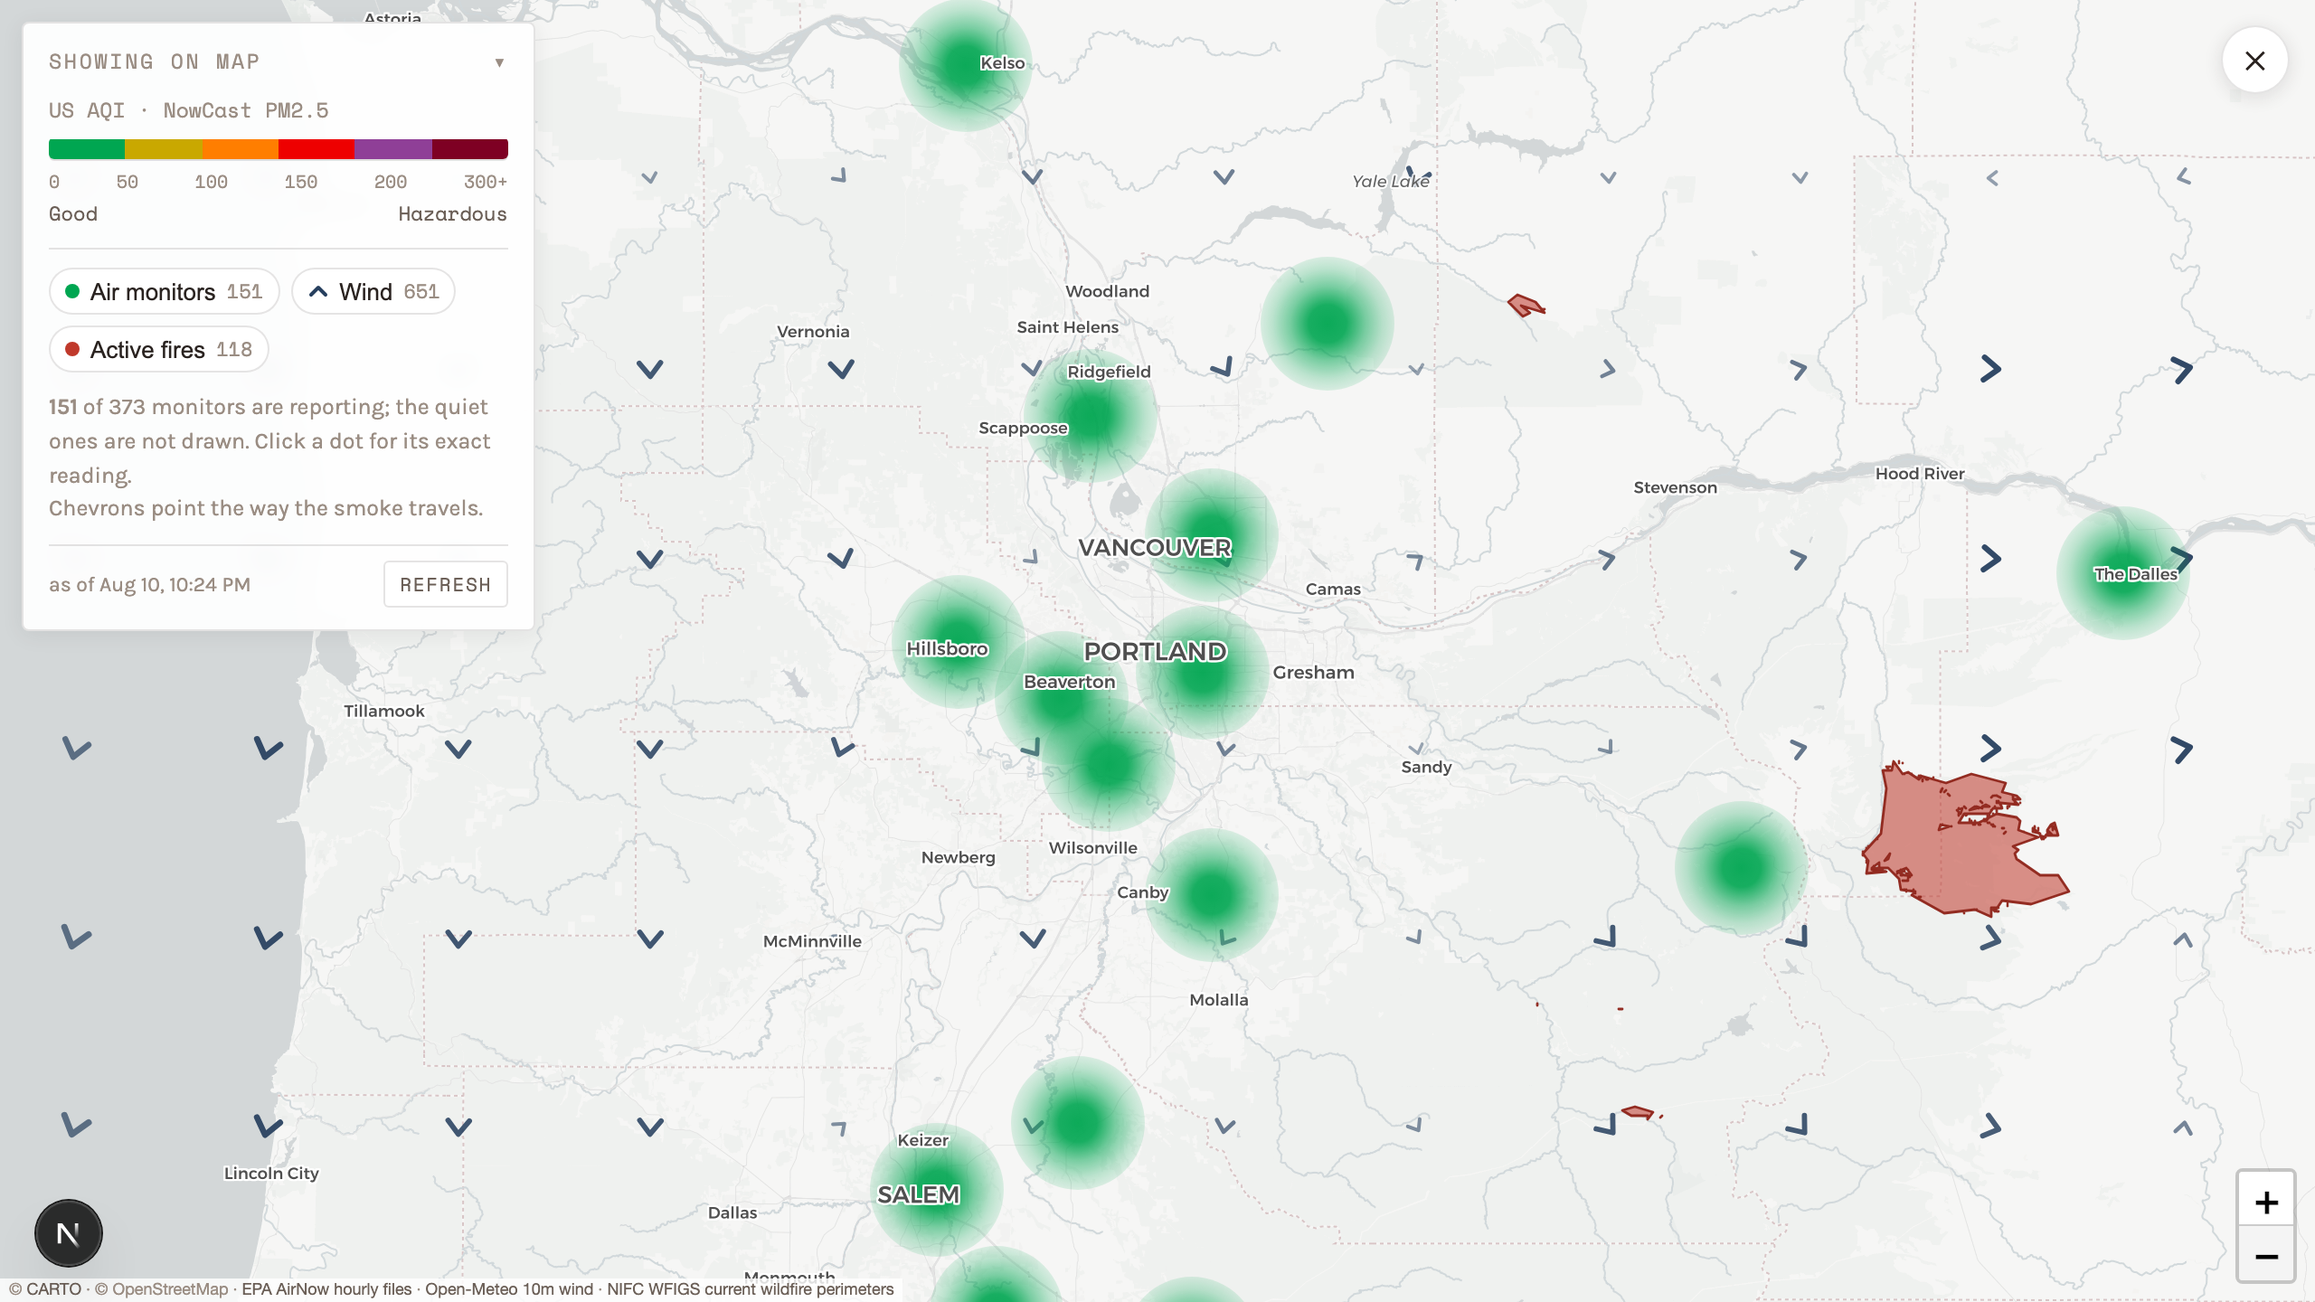
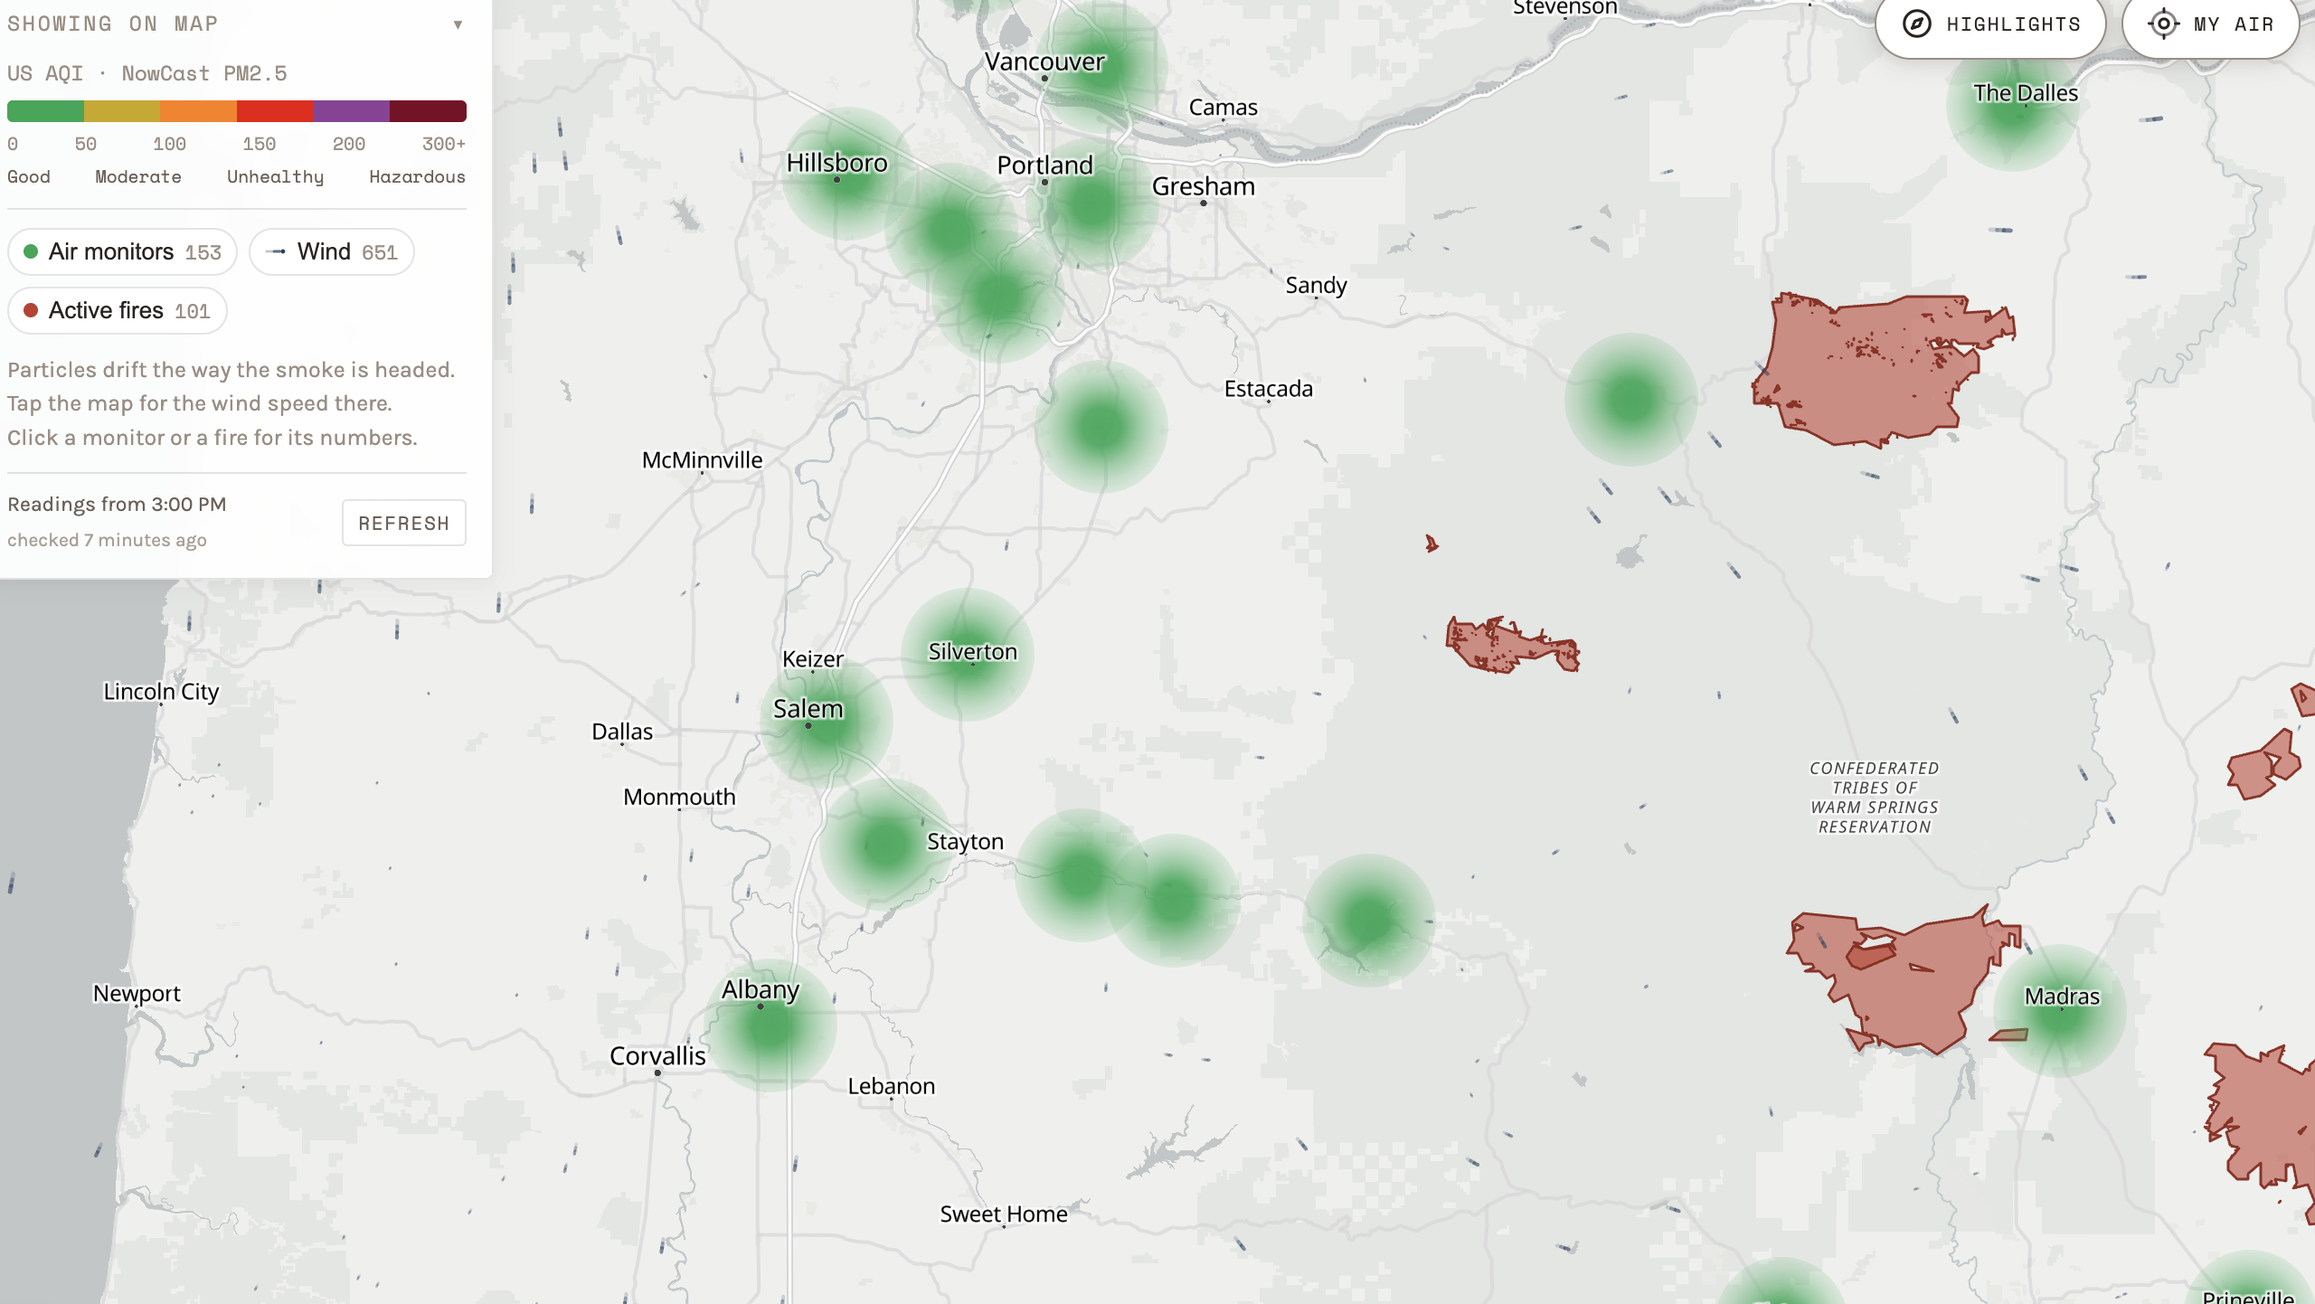
Smoke PDX: stop the trails from accumulating, dress the wind chip
Three fixes on top of the particle layer.

Ghost trails. The tail came from fading the canvas toward transparent each
frame rather than clearing it, which is the usual trick and is subtly broken:
canvas alpha is an 8-bit integer, so multiplying an almost transparent pixel by
0.972 rounds back to where it started and the faintest part of every trail
never erases. Sitting still left pale streaks across the map, worst over the
ocean. The canvas is now cleared every frame and each particle draws its own
recent path from a short history buffer, so nothing can accumulate and the tail
length is a number rather than a side effect of a fade rate.

The wind chip sat under city names. Leaflet puts tooltips at z-index 650, the
same as the labels pane, and the label tiles are added afterwards, so a name
painted straight over the answer. Tooltips now sit at 660, above names and
still below popups.

The chip also looked like a browser tooltip rather than part of this map. It
now carries the reading at size, the direction small underneath, and a chevron
pointing where the smoke is going, in the same navy the particles are drawn in.

Gallery screenshot refreshed to show the animated layer. Also noted in the
ship-experiment skill that map experiments need `agent-browser --headed`: the
vector basemaps render through WebGL, which headless Chrome here cannot do, so
a headless shot of any map comes out with no basemap at all.

diff --git a/app/design-experiments/(experiments)/smoke-pdx/components/WindCanvas.ts b/app/design-experiments/(experiments)/smoke-pdx/components/WindCanvas.ts
@@ -51,11 +51,26 @@ const PX_PER_MPH = 0.017
  *  by speeding anything up. */
 const MAX_AGE = 430
 
-/** How fast trails fade. Higher erases sooner, so trails read shorter. Low,
- *  because each frame now advances a particle a fraction of a pixel, and a
- *  quick fade at that pace would leave a dot with no tail behind it. The tail
- *  is the part that carries direction, so it is worth the pixels. */
-const TRAIL_FADE = 0.028
+/**
+ * Frames of position history each particle keeps, which IS the tail length.
+ *
+ * The tail used to come from fading the canvas toward transparent each frame
+ * rather than clearing it. That is the usual trick for this effect, and it is
+ * subtly broken: canvas alpha is an 8-bit integer, so multiplying an almost
+ * transparent pixel by 0.972 rounds straight back to the value it started at
+ * and the faintest part of every trail never erases. Leaving the map still for
+ * a minute left pale streaks across it, worst over the ocean where there is
+ * nothing else to look at.
+ *
+ * So the canvas is cleared every frame and each particle draws its own recent
+ * path instead. Nothing can accumulate, and the tail is a number here rather
+ * than a side effect of a fade rate.
+ */
+const TAIL = 46
+
+/** Alpha steps along the tail, newest to oldest. Three is enough for the taper
+ *  to read, and it keeps a frame at a dozen or so stroke calls. */
+const BANDS = 3
 
 /** One particle per this many square pixels of map, so density is what the eye
  *  sees rather than what the data holds. */
@@ -109,6 +124,20 @@ export function createWindCanvas(opts: {
   let age = new Float32Array(0)
   let count = 0
 
+  // Position history: TAIL slots per particle in one flat ring buffer. Every
+  // particle advances on the same frame, so they share a single write cursor
+  // rather than each carrying its own.
+  let hx = new Float32Array(0)
+  let hy = new Float32Array(0)
+  let head = 0
+
+  // Which speed tier each particle landed in this frame, and -1 for one that
+  // was just respawned and has nothing to draw yet. Kept so the draw pass can
+  // group by tier without asking the field again.
+  let tierOf = new Int8Array(0)
+  const tierFade = new Float32Array(TIERS)
+  const tierCount = new Float32Array(TIERS)
+
   const rgb = hexToRgb(color)
 
   function targetCount(): number {
@@ -127,6 +156,16 @@ export function createWindCanvas(opts: {
     // Staggered ages on the first seed, so the whole population does not
     // respawn on the same frame forever after.
     age[i] = fresh ? Math.random() * MAX_AGE : 0
+    tierOf[i] = -1
+    // A respawned particle has no past. Collapsing its whole history onto the
+    // new position makes every one of its segments zero-length, so it draws
+    // nothing until it has actually travelled rather than whipping a tail
+    // across the map from wherever it used to be.
+    const base = i * TAIL
+    for (let k = 0; k < TAIL; k++) {
+      hx[base + k] = px[i]
+      hy[base + k] = py[i]
+    }
   }
 
   function reseed() {
@@ -135,7 +174,11 @@ export function createWindCanvas(opts: {
       px = new Float32Array(count)
       py = new Float32Array(count)
       age = new Float32Array(count)
+      tierOf = new Int8Array(count)
+      hx = new Float32Array(count * TAIL)
+      hy = new Float32Array(count * TAIL)
     }
+    head = 0
     for (let i = 0; i < count; i++) seedOne(i, true)
   }
 
@@ -167,17 +210,15 @@ export function createWindCanvas(opts: {
   function step() {
     if (!ctx || !field) return
 
-    // Trails come from fading what is already drawn instead of clearing it.
-    // `destination-out` fades toward transparent rather than toward a color,
-    // which matters here: painting the map background over the canvas each
-    // frame would leave a fog sitting on top of the basemap.
-    ctx.globalCompositeOperation = 'destination-out'
-    ctx.fillStyle = `rgba(0,0,0,${TRAIL_FADE})`
-    ctx.fillRect(0, 0, width, height)
-    ctx.globalCompositeOperation = 'source-over'
+    // Cleared, not faded. See TAIL for why the usual fade leaves streaks that
+    // never finish erasing.
+    ctx.clearRect(0, 0, width, height)
 
-    // Collected per tier, then stroked in one path each.
-    const tiers: number[][] = Array.from({ length: TIERS }, () => [])
+    // Advance the cursor first, so the slot written below is the newest point
+    // of every tail and segment 0 is always the step that just happened.
+    head = (head + 1) % TAIL
+    tierFade.fill(0)
+    tierCount.fill(0)
 
     for (let i = 0; i < count; i++) {
       const x = px[i]
@@ -201,41 +242,69 @@ export function createWindCanvas(opts: {
       const nx = x + dx
       const ny = y + dy
 
+      px[i] = nx
+      py[i] = ny
+      hx[i * TAIL + head] = nx
+      hy[i * TAIL + head] = ny
+      age[i] += 1
+
+      if (age[i] > MAX_AGE || nx < 0 || ny < 0 || nx > width || ny > height) {
+        seedOne(i, false)
+        continue
+      }
+
       // Speed drives opacity and width together, the same pairing the chevrons
       // use. A thin stroke has too little ink on screen for an opacity ramp
       // alone to read.
       const t = Math.min(s.speed / 22, 1)
       const tier = Math.min(Math.floor(t * TIERS), TIERS - 1)
-      tiers[tier].push(x, y, nx, ny, fade)
-
-      px[i] = nx
-      py[i] = ny
-      age[i] += 1
-
-      if (age[i] > MAX_AGE || nx < 0 || ny < 0 || nx > width || ny > height) {
-        seedOne(i, false)
-      }
+      tierOf[i] = tier
+      tierFade[tier] += fade
+      tierCount[tier] += 1
     }
 
+    // One path per speed tier per alpha band, so a frame is about a dozen
+    // stroke calls no matter how many particles are in the air.
+    const perBand = Math.ceil((TAIL - 1) / BANDS)
+    ctx.lineCap = 'round'
+
     for (let tier = 0; tier < TIERS; tier++) {
-      const seg = tiers[tier]
-      if (!seg.length) continue
+      if (!tierCount[tier]) continue
       const t = (tier + 0.5) / TIERS
+      // The edge fade varies per particle, so the tier takes the average of
+      // what it is carrying. That keeps the region edge soft without needing a
+      // stroke call per particle.
+      const meanFade = tierFade[tier] / tierCount[tier]
       ctx.lineWidth = 1.2 + t * 1.7
-      ctx.lineCap = 'round'
-      // One alpha per tier. The edge fade varies per particle, so the tier
-      // takes the average of what it is carrying rather than a single value,
-      // which keeps the region edge soft without a stroke call per particle.
-      let fadeSum = 0
-      for (let i = 4; i < seg.length; i += 5) fadeSum += seg[i]
-      const meanFade = fadeSum / (seg.length / 5)
-      ctx.strokeStyle = `rgba(${rgb},${((0.3 + t * 0.55) * meanFade).toFixed(3)})`
-      ctx.beginPath()
-      for (let i = 0; i < seg.length; i += 5) {
-        ctx.moveTo(seg[i], seg[i + 1])
-        ctx.lineTo(seg[i + 2], seg[i + 3])
+
+      for (let b = 0; b < BANDS; b++) {
+        // Band 0 holds the newest segments and draws at full strength; each
+        // older band is dimmer, which is the taper from head to tail.
+        const bandAlpha = (BANDS - b) / BANDS
+        ctx.strokeStyle = `rgba(${rgb},${((0.3 + t * 0.55) * meanFade * bandAlpha).toFixed(3)})`
+        ctx.beginPath()
+
+        const kStart = b * perBand
+        const kEnd = Math.min(kStart + perBand, TAIL - 1)
+        for (let i = 0; i < count; i++) {
+          if (tierOf[i] !== tier) continue
+          const base = i * TAIL
+          for (let k = kStart; k < kEnd; k++) {
+            const a = (head - k + TAIL) % TAIL
+            const c = (head - k - 1 + TAIL) % TAIL
+            const x1 = hx[base + a]
+            const y1 = hy[base + a]
+            const x2 = hx[base + c]
+            const y2 = hy[base + c]
+            // Collapsed history from a respawn. Drawing it would put a stray
+            // round dot wherever that particle was born.
+            if (x1 === x2 && y1 === y2) continue
+            ctx.moveTo(x1, y1)
+            ctx.lineTo(x2, y2)
+          }
+        }
+        ctx.stroke()
       }
-      ctx.stroke()
     }
   }
 

diff --git a/app/design-experiments/(experiments)/smoke-pdx/components/MapView.tsx b/app/design-experiments/(experiments)/smoke-pdx/components/MapView.tsx
@@ -187,6 +187,12 @@ export default function MapView({
       await addLabelsOverlay(map, { theme: MAP_CONFIG.basemap.theme, pane: 'labels' })
       if (!mounted) return
 
+      // Leaflet puts tooltips at 650, which is exactly where the labels pane
+      // above sits, and the label tiles are added afterwards, so a city name
+      // painted straight over the wind chip. 660 clears the names and still
+      // leaves popups (700) on top of everything.
+      map.getPane('tooltipPane')!.style.zIndex = '660'
+
       map.on('zoomend', () => setZoom(map!.getZoom()))
       map.on('moveend zoomend', () => setView((v) => v + 1))
 
@@ -337,7 +343,7 @@ export default function MapView({
             offset: [0, -6],
           })
             .setLatLng(at)
-            .setContent(feature.label)
+            .setContent(windChip(feature.value, feature.bearing ?? 0))
           tip.addTo(map)
           windTipRef.current = tip
           // It came from a button, not from a pointer, so nothing will take it
@@ -691,7 +697,7 @@ export default function MapView({
           offset: [0, -4],
         })
           .setLatLng(e.latlng)
-          .setContent(`${Math.round(s.speed)} mph from the ${bearingLabel(bearingOf(s))}`)
+          .setContent(windChip(s.speed, bearingOf(s)))
         tip.addTo(map)
         windTipRef.current = tip
         windTipTimerRef.current = window.setTimeout(clearWindTip, 6000)
@@ -774,6 +780,34 @@ const POPUP_PAN = {
 function inMetro(lat: number, lng: number): boolean {
   const [[s, w], [n, e]] = METRO.bounds
   return lat >= s && lat <= n && lng >= w && lng <= e
+}
+
+/**
+ * The wind chip: what a tap on the field gets back.
+ *
+ * Plain text in a white box read as a browser tooltip rather than as part of
+ * this map, and it gave a number and a direction the same weight. The reading
+ * is the number, so it takes the size; the direction is context, so it goes
+ * small underneath; and the chevron is the same mark the reduced-motion layer
+ * draws, rotated the same way, so the chip states in a glyph what the
+ * particles around it are already doing.
+ */
+function windChip(mph: number | null, bearing: number): string {
+  // Meteorology names the direction wind comes FROM, so the glyph turns 180°
+  // to point where the smoke is going, exactly as the chevrons do.
+  const heading = Math.round((bearing + 180) % 360)
+  return (
+    `<span class="${styles.windChipRow}">` +
+    `<svg class="${styles.windChipArrow}" viewBox="0 0 12 12" ` +
+    `style="transform:rotate(${heading}deg)" aria-hidden>` +
+    `<path d="M2 8 L6 3.5 L10 8" fill="none" stroke="currentColor" ` +
+    `stroke-width="2" stroke-linecap="round" stroke-linejoin="round"/>` +
+    `</svg>` +
+    `<span class="${styles.windChipNum}">${Math.round(mph ?? 0)}</span>` +
+    `<span class="${styles.windChipUnit}">mph</span>` +
+    `</span>` +
+    `<span class="${styles.windChipDir}">from the ${escapeHtml(bearingLabel(bearing))}</span>`
+  )
 }
 
 function arrowSvg(

diff --git a/app/design-experiments/(experiments)/smoke-pdx/styles.module.css b/app/design-experiments/(experiments)/smoke-pdx/styles.module.css
@@ -709,9 +709,68 @@
   filter: saturate(1.6) brightness(0.85);
 }
 
+/* The wind chip.
+   Leaflet's default tooltip is a white box with a hairline border, which reads
+   as a browser affordance sitting on the map rather than as part of it. This is
+   the map's own navy, the same ink the particles are drawn in, so the answer
+   looks like it came from the layer that was tapped. */
 .windTip {
   font-family: var(--font-space-mono, ui-monospace, monospace);
+  background: #27405f;
+  color: #fff;
+  border: 0;
+  border-radius: 5px;
+  padding: 5px 9px 6px;
+  box-shadow: 0 6px 18px rgba(20, 30, 45, 0.3);
+  white-space: nowrap;
+}
+
+/* The little arrow under the tooltip is drawn as a border triangle, and its
+   color is set per direction, so it has to be recolored to match. Compounded
+   with Leaflet's own class so it outranks the default regardless of order. */
+.windTip:global(.leaflet-tooltip-top)::before {
+  border-top-color: #27405f;
+}
+
+.windTip:global(.leaflet-tooltip-bottom)::before {
+  border-bottom-color: #27405f;
+}
+
+.windChipRow {
+  display: flex;
+  align-items: baseline;
+  gap: 4px;
+}
+
+.windChipArrow {
+  width: 11px;
+  height: 11px;
+  /* Nudged onto the number's baseline; a flex baseline does nothing useful for
+     an SVG, which aligns on its bottom edge. */
+  align-self: center;
+  opacity: 0.85;
+}
+
+.windChipNum {
+  font-size: 15px;
+  font-weight: 500;
+  letter-spacing: -0.01em;
+}
+
+.windChipUnit {
   font-size: 10px;
+  opacity: 0.7;
+}
+
+/* The direction is what the number means, not a second reading, so it sits
+   under it in the quiet style the rest of the map gives to context. */
+.windChipDir {
+  display: block;
+  margin-top: 1px;
+  font-size: 9px;
+  letter-spacing: 0.06em;
+  text-transform: uppercase;
+  opacity: 0.68;
 }
 
 /* ---- the reading: fires -> wind -> what arrived ---- */

diff --git a/.claude/skills/ship-experiment/SKILL.md b/.claude/skills/ship-experiment/SKILL.md
@@ -38,11 +38,29 @@ Ship a design experiment with automated screenshot, updates, and commit workflow
 #    If missing, add the import and export at the top of page.tsx.
 
 # 1. Start dev server and take screenshot
-npm run dev &
+pnpm dev &
 sleep 3
 agent-browser open "http://localhost:3000/experiment-name" --viewport 1280x720
 agent-browser screenshot ./public/screenshots/experiment-name.png
 # Close browser and stop server
+
+# MAP EXPERIMENTS NEED --headed.
+# The basemaps are vector tiles (OpenFreeMap via lib/basemap), which render
+# through WebGL. Headless Chrome here has no working WebGL — it fails with
+# "Could not create a WebGL context ... SwiftShader" and the map screenshots
+# with NO BASEMAP AT ALL, just data floating on a blank background. Verified
+# 2026-09-15 on Smoke PDX: headless came out empty, headed rendered correctly.
+#
+# So for any experiment with a map, add --headed to every call in the session:
+#
+#   agent-browser --session shot --headed open "http://localhost:3000/experiment-name"
+#   agent-browser --session shot --headed wait 6000   # let tiles and data settle
+#   agent-browser --session shot --headed screenshot ./public/screenshots/experiment-name.png
+#   agent-browser --session shot --headed close
+#
+# This opens a real browser window on the user's screen, so say so first. When a
+# layer is animated, which frame to catch is a taste call — offer to let the user
+# take the shot instead.
 
 # 2. Review description
 #    Read current description from lib/experiments/data.ts
